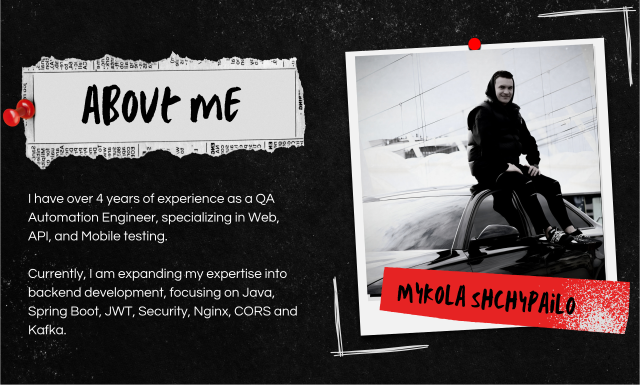
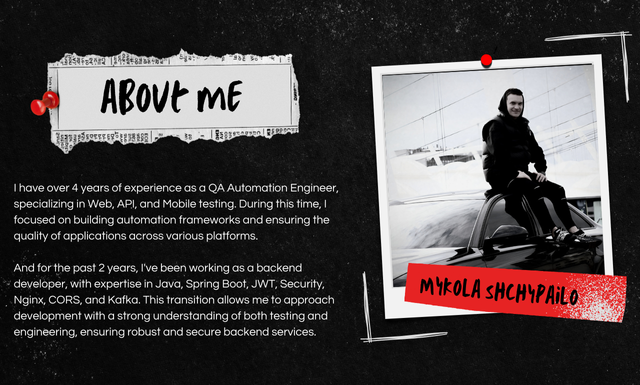
change photo 'about me'

diff --git a/index.html b/index.html
@@ -167,9 +167,9 @@
                         <div class="title2">A Few Words About Me</div>
                         I have over 4 years of experience as a QA Automation Engineer, specializing in Web, API, and Mobile testing.
 
-                        <br><br>Currently, I am expanding my expertise into backend development, focusing on Java, Spring Boot, JWT, Security, Nginx, CORS, and Kafka.
+                        <br><br>And for the past 2 years, I've been working as a backend developer, with expertise in Java, Spring Boot, JWT, Security, Nginx, CORS, and Kafka. This transition allows me to approach development with a strong understanding of both testing and engineering.
                         <div class="but_wrap">
-                            <br><br><a href="#" class="button2">read more</a>
+                            <a href="https://nick8787.github.io/post-wave-documentation/" target="_blank" class="button2">read more</a>
                         </div>
                     </div>
                 </li>
